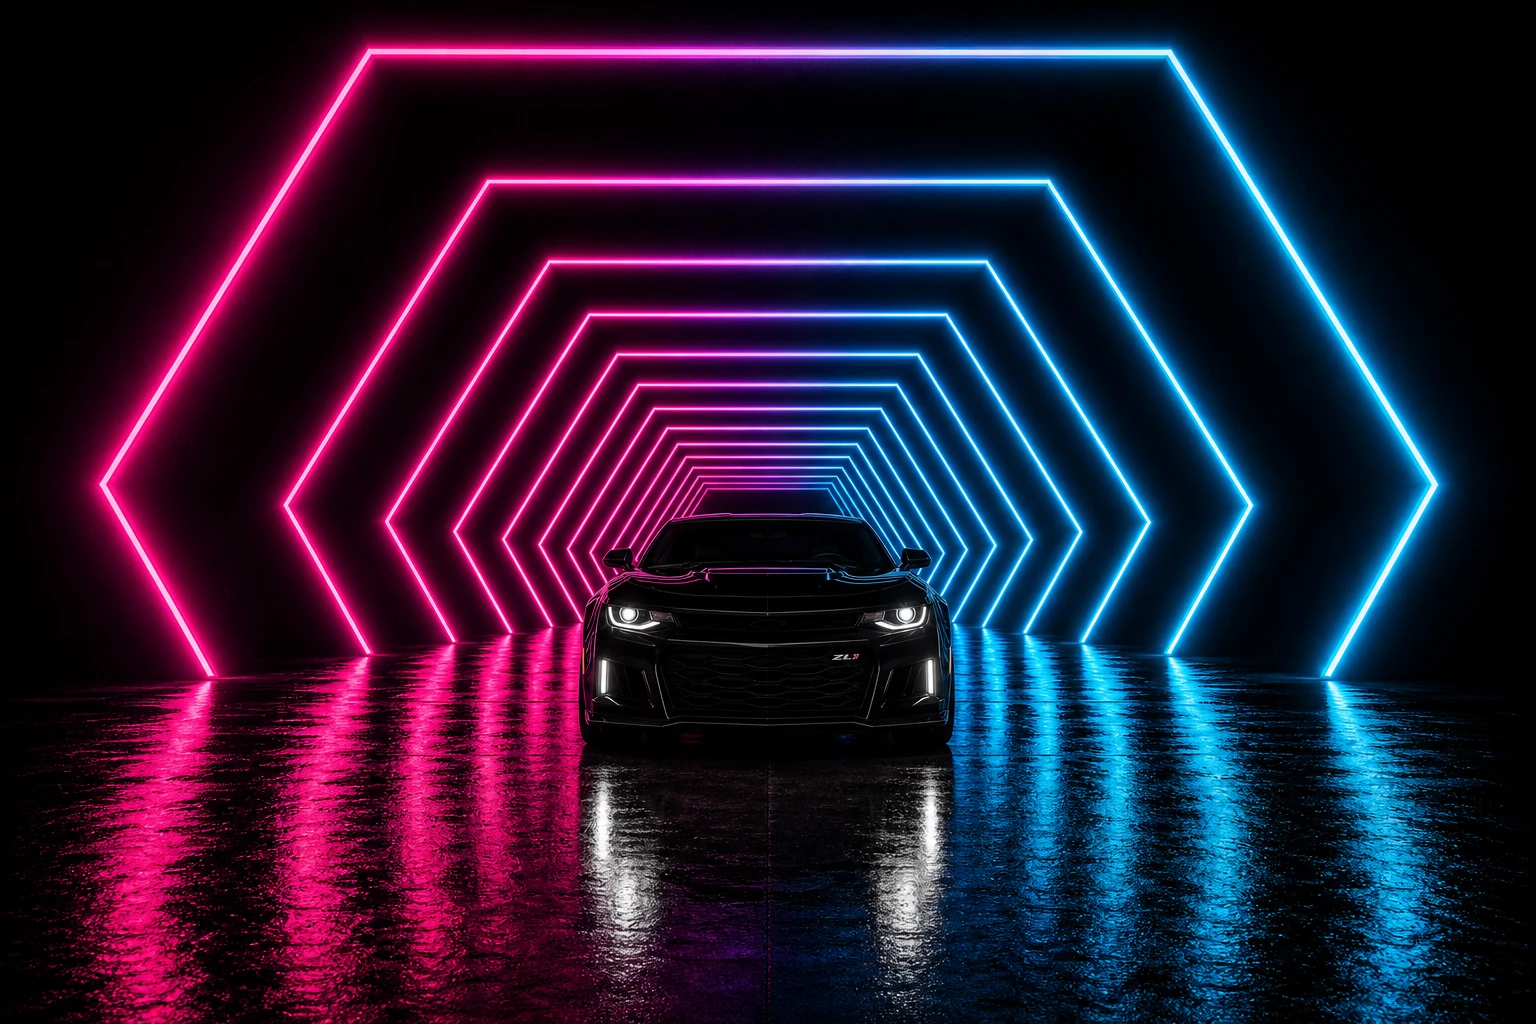
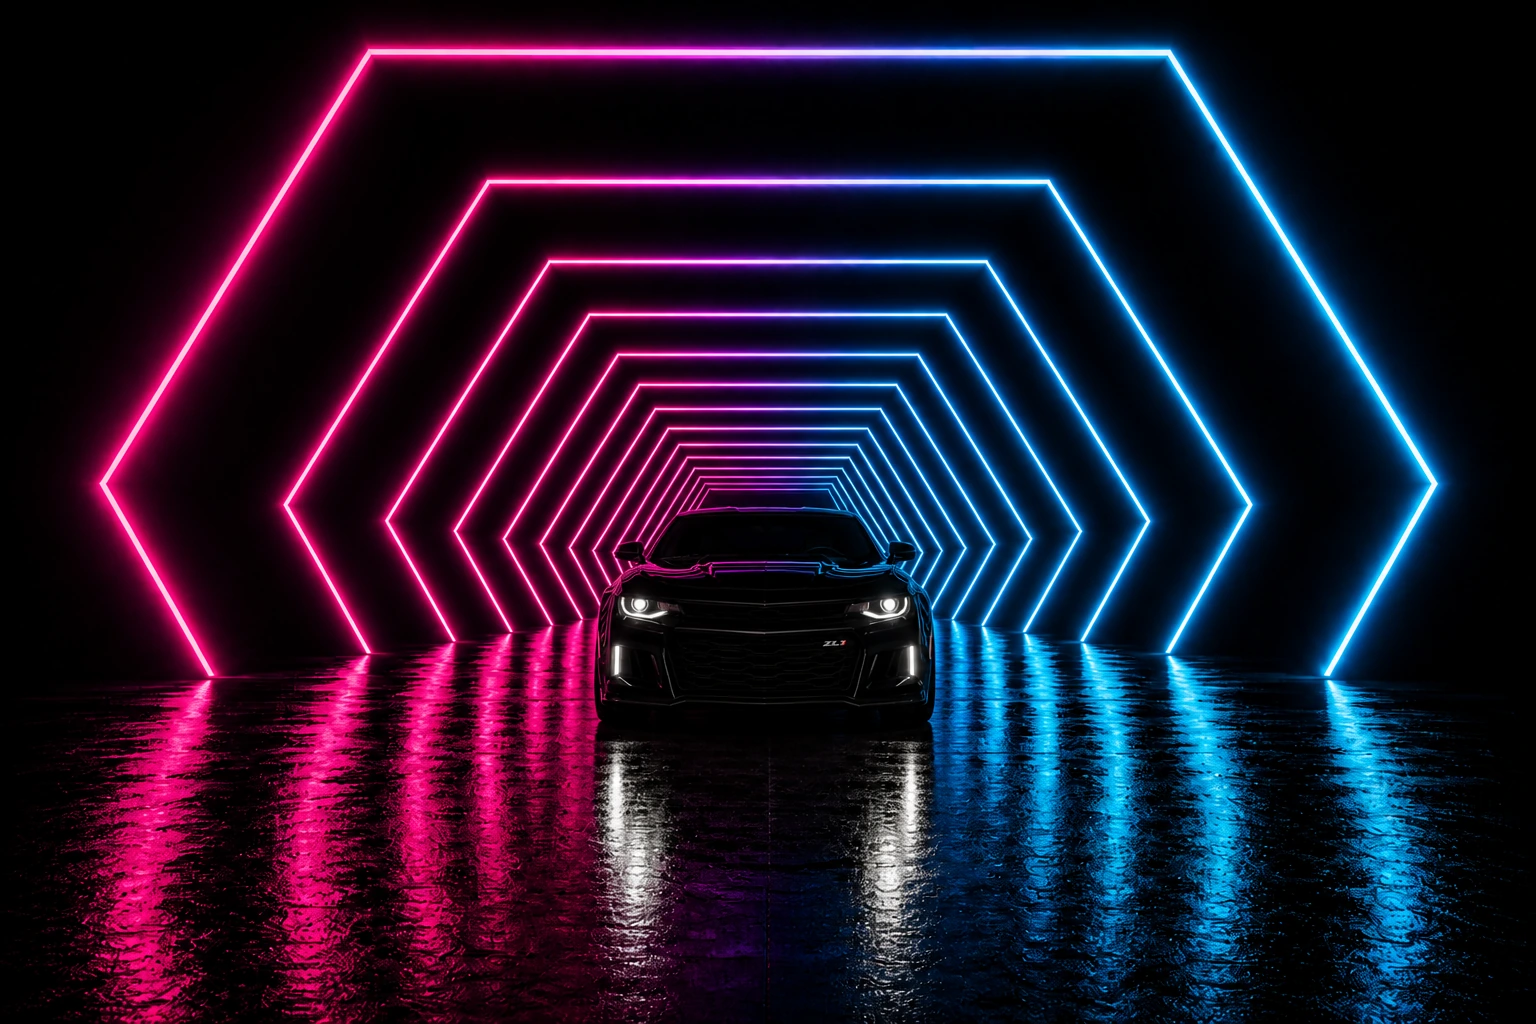
Show the full front-facing Camaro tunnel photo in the hero.
Replace the cropped 50% plate with the complete picture (contain, centered) so the site matches the reference still.

diff --git a/artifacts/apex-detailing/src/index.css b/artifacts/apex-detailing/src/index.css
@@ -1128,13 +1128,13 @@
     container-type: size;
   }
 
-  /* Front-facing plate at 50% of cover — zoomed out so tunnel + floor stay visible. */
+  /* Show the full front-facing photo (contain), not a cropped 3/4 plate. */
   .apex-hero-plate {
     position: absolute;
-    width: max(50cqw, calc(50cqh * 1536 / 1024));
-    height: max(50cqh, calc(50cqw * 1024 / 1536));
-    left: 58%;
-    top: 52%;
+    width: min(100cqw, calc(100cqh * 1536 / 1024));
+    height: min(100cqh, calc(100cqw * 1024 / 1536));
+    left: 50%;
+    top: 50%;
     transform: translate(-50%, -50%);
   }
 
@@ -1183,8 +1183,8 @@
     z-index: 4;
     pointer-events: none;
     background:
-      linear-gradient(90deg, rgba(0, 0, 0, 0.92) 0%, rgba(0, 0, 0, 0.58) 30%, rgba(0, 0, 0, 0.12) 52%, transparent 66%),
-      linear-gradient(180deg, rgba(0, 0, 0, 0.32) 0%, transparent 20%, transparent 74%, rgba(0, 0, 0, 0.5) 100%);
+      linear-gradient(90deg, rgba(0, 0, 0, 0.78) 0%, rgba(0, 0, 0, 0.42) 26%, rgba(0, 0, 0, 0.08) 48%, transparent 62%),
+      linear-gradient(180deg, rgba(0, 0, 0, 0.28) 0%, transparent 18%, transparent 78%, rgba(0, 0, 0, 0.4) 100%);
   }
 
   .apex-hero-shell {
@@ -1336,11 +1336,11 @@
     }
 
     .apex-hero-plate {
-      width: max(62cqw, calc(48cqh * 1536 / 1024));
-      height: max(48cqh, calc(62cqw * 1024 / 1536));
+      width: min(100cqw, calc(100cqh * 1536 / 1024));
+      height: min(100cqh, calc(100cqw * 1024 / 1536));
       left: 50%;
-      top: 70%;
-      transform: translate(-50%, -42%);
+      top: 54%;
+      transform: translate(-50%, -50%);
     }
 
     .apex-hero-wash {

diff --git a/artifacts/apex-detailing/src/components/hero/ApexHero.tsx b/artifacts/apex-detailing/src/components/hero/ApexHero.tsx
@@ -42,9 +42,9 @@ function waitForSplashGone(): Promise<void> {
 }
 
 /**
- * Hero visual is the front-facing Camaro + hex tunnel photo, shown at 50% zoom
- * so the full rings and wet floor stay in frame. 8 SVG paths light back→front
- * over it, then fade so the settled frame is the photo.
+ * Hero visual is the front-facing Camaro + hex tunnel photograph, shown in
+ * full (contain) so the picture matches the reference. 8 SVG paths light
+ * back→front, then fade so the settled frame is the photo.
  */
 export default function ApexHero({
   bookingHref,
